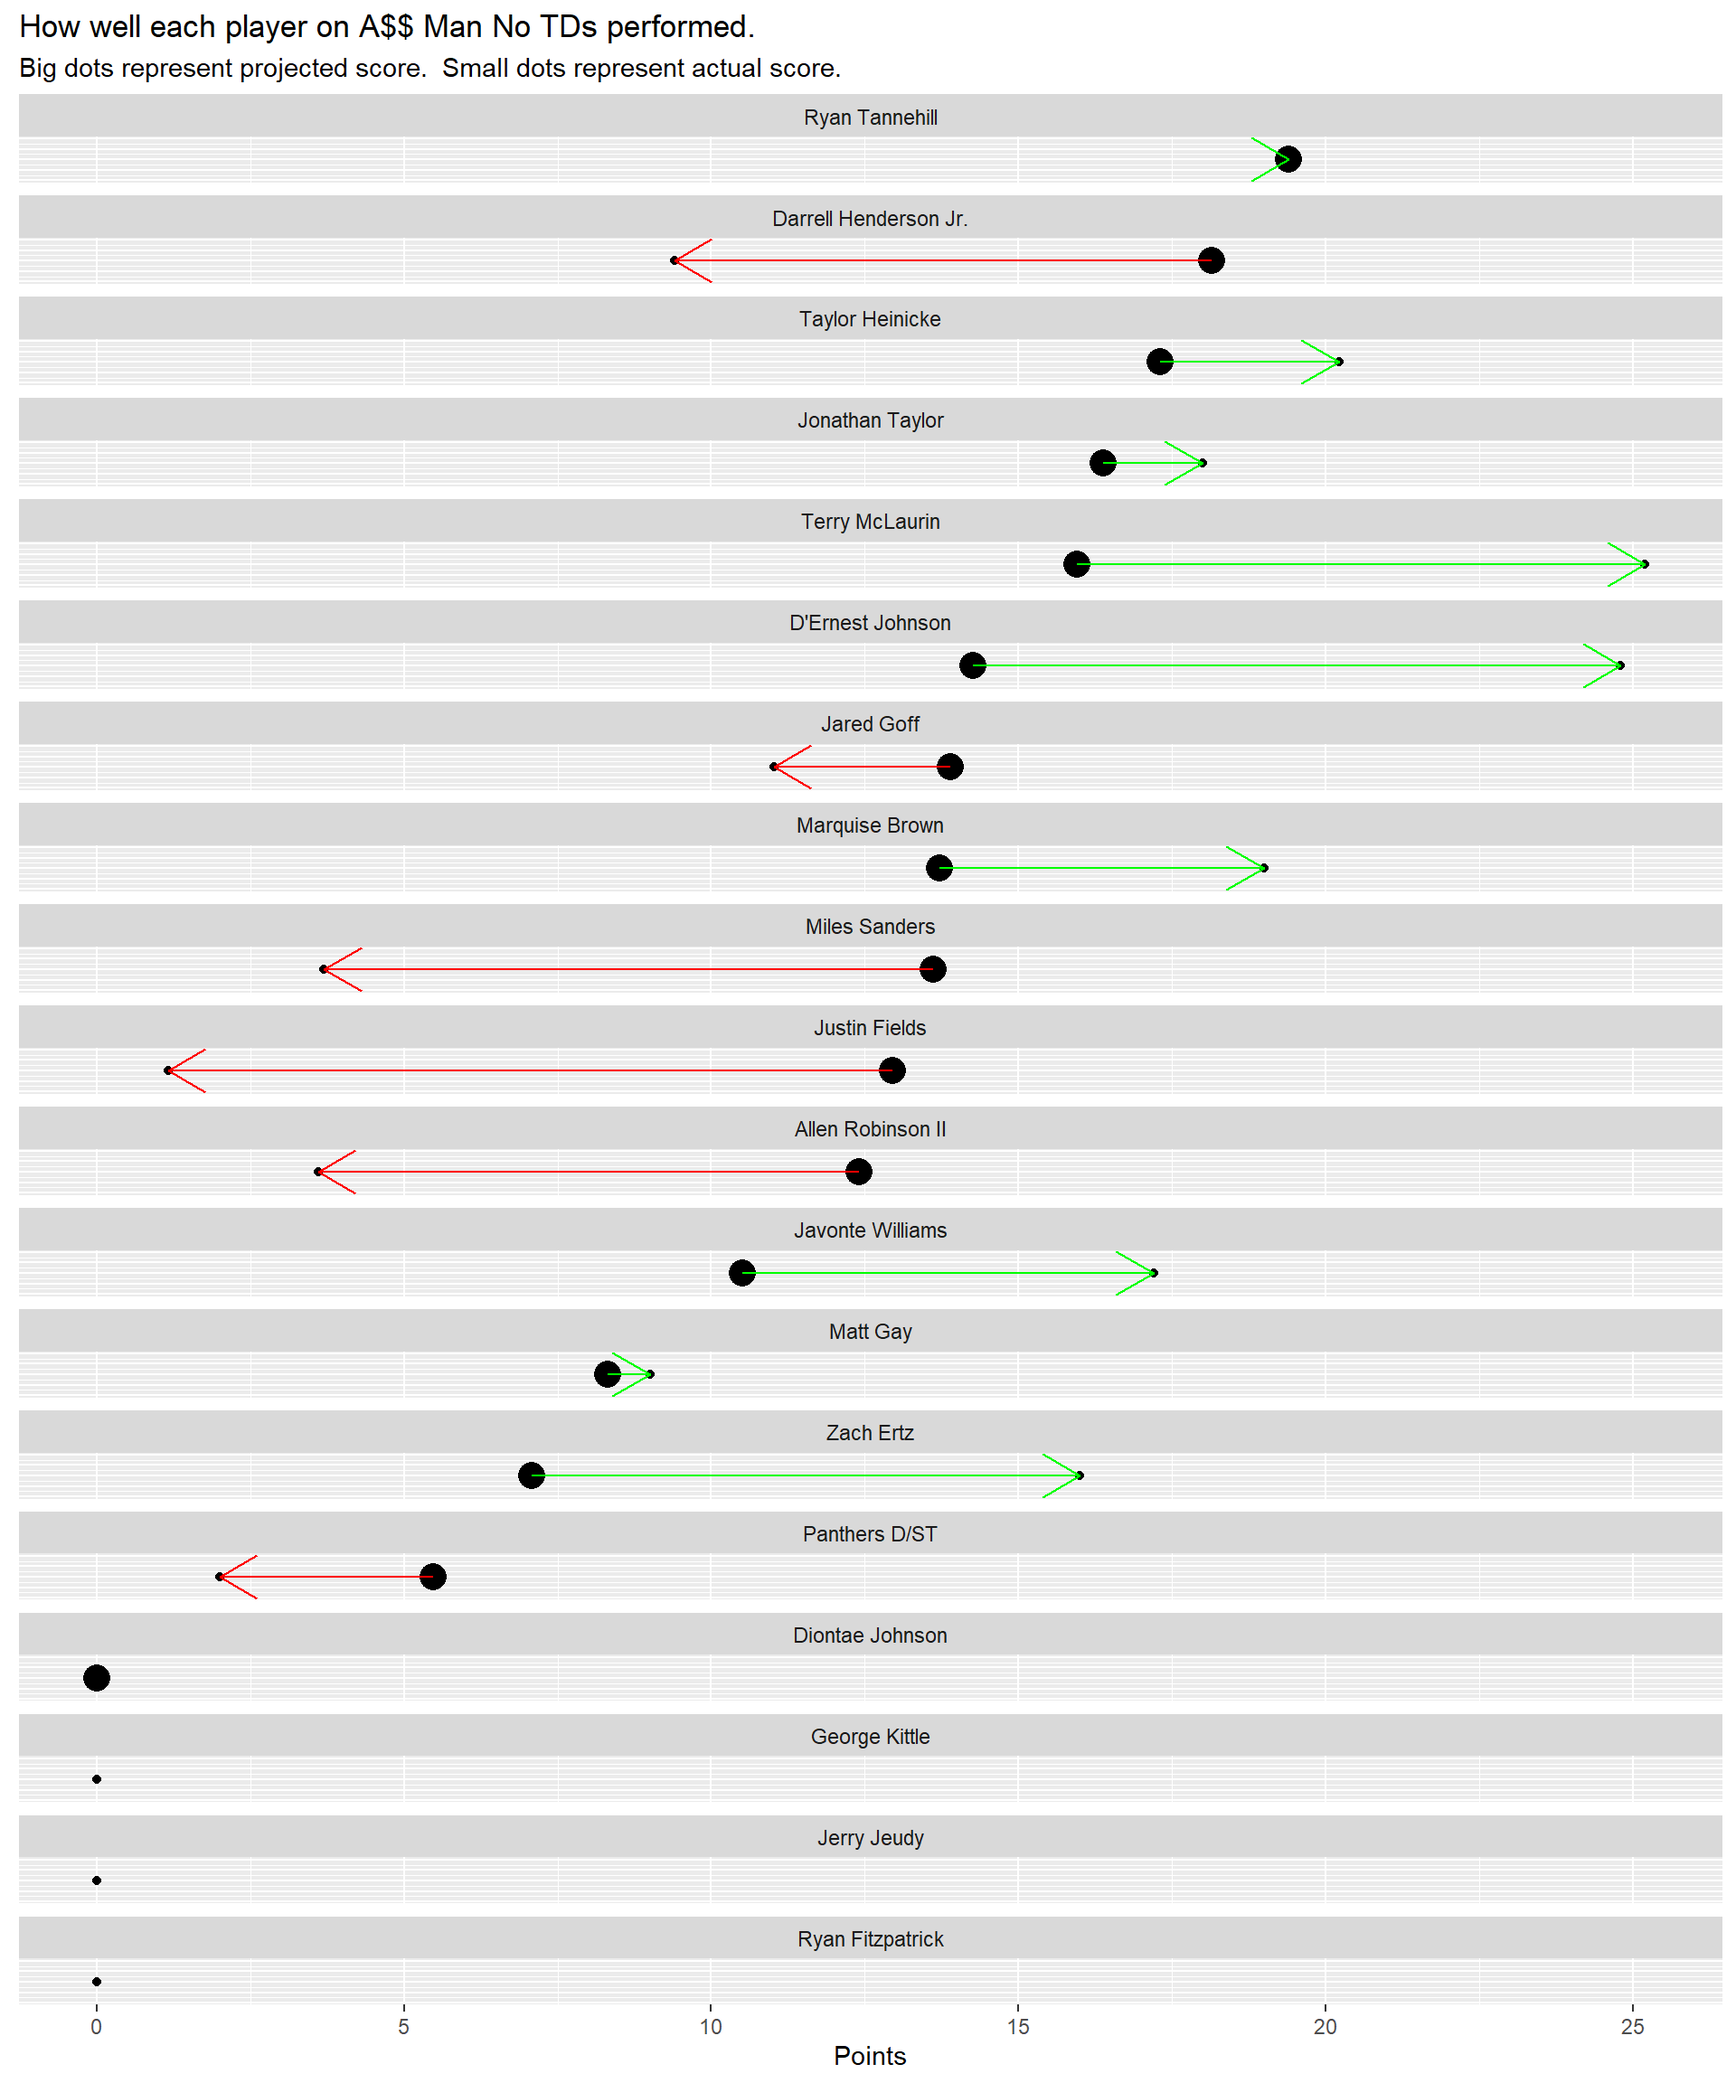
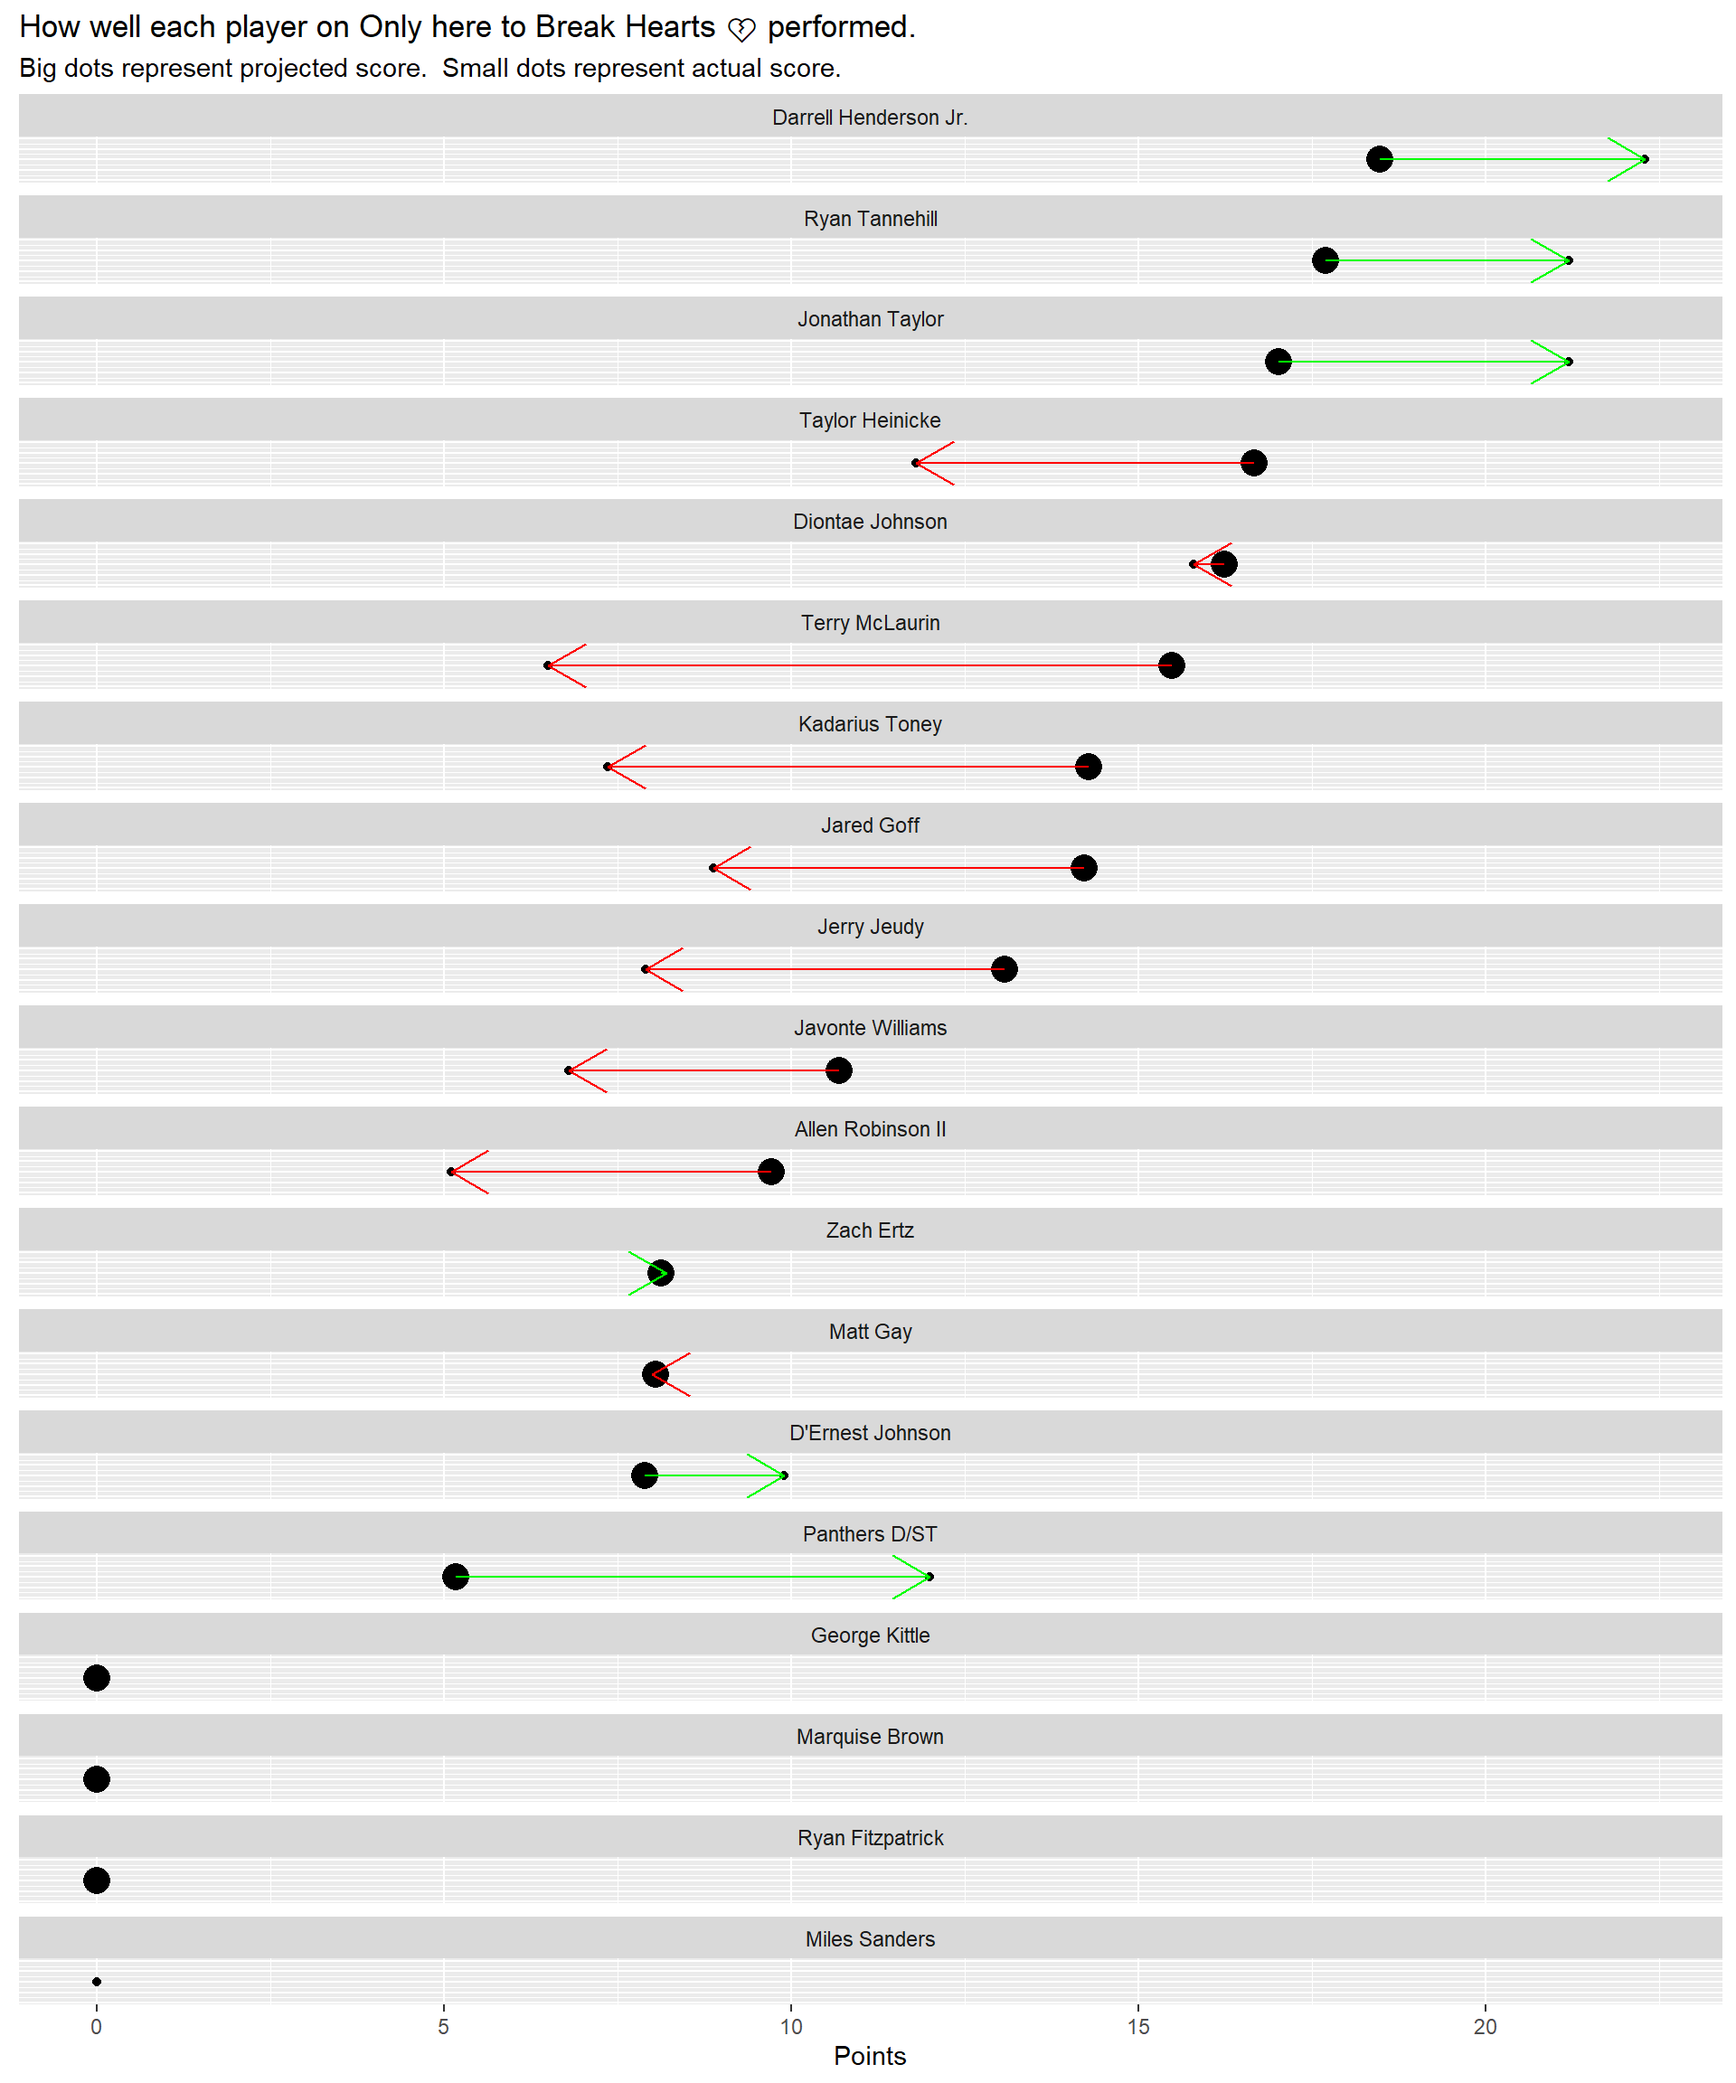
Add files via upload

diff --git a/about.html b/about.html
@@ -332,7 +332,7 @@ $(document).ready(function () {
 }
 </style>
 <div id="htmlwidget-d2e378dadf8765b5f606" style="width:100%;height:auto;" class="datatables html-widget"></div>
-<script type="application/json" data-for="htmlwidget-d2e378dadf8765b5f606">{"x":{"filter":"none","data":[[". The Bucs","The Man In The Black Pajamas","The Ticklish Whiskers","Bass Kicker","Everybody Hurts","School Boys","WHITEwilly XI","Bench Warmers","Venice Nihilists","A$$ Man No TDs"],[5,5,5,4,4,4,3,2,2,1],[1,1,2,0,1,1,2,0,0,0],[0,1,0,1,1,1,0,2,0,2],[2,2,2,3,3,3,4,5,5,6],[0.714285714285714,0.714285714285714,0.714285714285714,0.571428571428571,0.571428571428571,0.571428571428571,0.428571428571429,0.285714285714286,0.285714285714286,0.142857142857143]],"container":"<table class=\"table table-striped table-hover\">\n  <thead>\n    <tr>\n      <th> <\/th>\n      <th>Wins<\/th>\n      <th>Lucky Wins<\/th>\n      <th>Unlucky Losses<\/th>\n      <th>Losses<\/th>\n      <th>Win_perc<\/th>\n    <\/tr>\n  <\/thead>\n<\/table>","options":{"pageLength":10,"searching":false,"columnDefs":[{"className":"dt-center","targets":[0,1,2,3,4,5]},{"orderable":false,"targets":0}],"order":[],"autoWidth":false,"orderClasses":false,"rowCallback":"function(row, data) {\nDTWidget.formatPercentage(this, row, data, 5, 2, 3, \",\", \".\");\n}"}},"evals":["options.rowCallback"],"jsHooks":[]}</script>
+<script type="application/json" data-for="htmlwidget-d2e378dadf8765b5f606">{"x":{"filter":"none","data":[[". The Bucs","The Ticklish Whiskers","Bass Kicker","The Man In The Black Pajamas","Everybody Hurts","School Boys","Bench Warmers","WHITEwilly XI","Only here to Break Hearts 💔","Venice Nihilists"],[6,6,5,5,4,4,3,3,2,2],[2,2,1,1,1,1,0,2,0,0],[0,0,1,1,1,2,2,0,2,1],[2,2,3,3,4,4,5,5,6,6],[0.75,0.75,0.625,0.625,0.5,0.5,0.375,0.375,0.25,0.25]],"container":"<table class=\"table table-striped table-hover\">\n  <thead>\n    <tr>\n      <th> <\/th>\n      <th>Wins<\/th>\n      <th>Lucky Wins<\/th>\n      <th>Unlucky Losses<\/th>\n      <th>Losses<\/th>\n      <th>Win_perc<\/th>\n    <\/tr>\n  <\/thead>\n<\/table>","options":{"pageLength":10,"searching":false,"columnDefs":[{"className":"dt-center","targets":[0,1,2,3,4,5]},{"orderable":false,"targets":0}],"order":[],"autoWidth":false,"orderClasses":false,"rowCallback":"function(row, data) {\nDTWidget.formatPercentage(this, row, data, 5, 2, 3, \",\", \".\");\n}"}},"evals":["options.rowCallback"],"jsHooks":[]}</script>
 
 
 

diff --git a/index.html b/index.html
@@ -356,25 +356,25 @@ $(document).ready(function () {
 <div class="card-counter dark">
 <i class="fas fa-arrow-circle-up"></i>
 <span class="count-numbers">Highest Score</span>
-<span class="count-name">School Boys 150.06</span>
+<span class="count-name">The Ticklish Whiskers 157.06</span>
 </div>
 </div><div class="col-md-3">
 <div class="card-counter dark">
 <i class="fas fa-angle-double-up"></i>
 <span class="count-numbers">Overachiever</span>
-<span class="count-name">Bass Kicker +29.73</span>
+<span class="count-name">The Ticklish Whiskers +26.87</span>
 </div>
 </div><div class="col-md-3">
 <div class="card-counter dark">
 <i class="fas fa-brain"></i>
 <span class="count-numbers">Best Manager</span>
-<span class="count-name">. The Bucs 100.00%</span>
+<span class="count-name">Only here to Break Hearts 💔 98.91%</span>
 </div>
 </div><div class="col-md-3">
 <div class="card-counter dark">
 <i class="fas fa-arrows-alt-h"></i>
 <span class="count-numbers">Biggest Win Margin</span>
-<span class="count-name">School Boys +65.12</span>
+<span class="count-name">The Ticklish Whiskers +69.74</span>
 </div>
 </div></p>
 <p><span class="math inline">\(~\)</span></p>
@@ -382,25 +382,25 @@ $(document).ready(function () {
 <div class="card-counter danger">
 <i class="fas fa-arrow-circle-down"></i>
 <span class="count-numbers">Lowest Score</span>
-<span class="count-name">Venice Nihilists 84.94</span>
+<span class="count-name">WHITEwilly XI 87.32</span>
 </div>
 </div><div class="col-md-3">
 <div class="card-counter danger">
 <i class="fas fa-angle-double-down"></i>
 <span class="count-numbers">Underachiever</span>
-<span class="count-name">Venice Nihilists -32.52</span>
+<span class="count-name">Venice Nihilists -46.77</span>
 </div>
 </div><div class="col-md-3">
 <div class="card-counter danger">
 <i class="fas fa-blind"></i>
 <span class="count-numbers">Worst Manager</span>
-<span class="count-name">Bench Warmers 78.48%</span>
+<span class="count-name">Bass Kicker 72.92%</span>
 </div>
 </div><div class="col-md-3">
 <div class="card-counter danger">
 <i class="fas fa-sad-cry"></i>
 <span class="count-numbers">Smallest Loss Margin</span>
-<span class="count-name">A$$ Man No TDs -6.26</span>
+<span class="count-name">The Man In The Black Pajamas -8.84</span>
 </div>
 </div></p>
 

diff --git a/teams.html b/teams.html
@@ -315,8 +315,8 @@ $(document).ready(function () {
 <div id="team-reports" class="section level2 tabset tabset-pills">
 <h2>Team Reports</h2>
 <hr />
-<div id="a-man-no-tds" class="section level3">
-<h3>A$$ Man No TDs</h3>
+<div id="only-here-to-break-hearts" class="section level3">
+<h3>Only here to Break Hearts 💔</h3>
 <p><img src="teams_files/figure-html/unnamed-chunk-2-1.png" width="960" /></p>
 </div>
 <div id="everybody-hurts" class="section level3">
